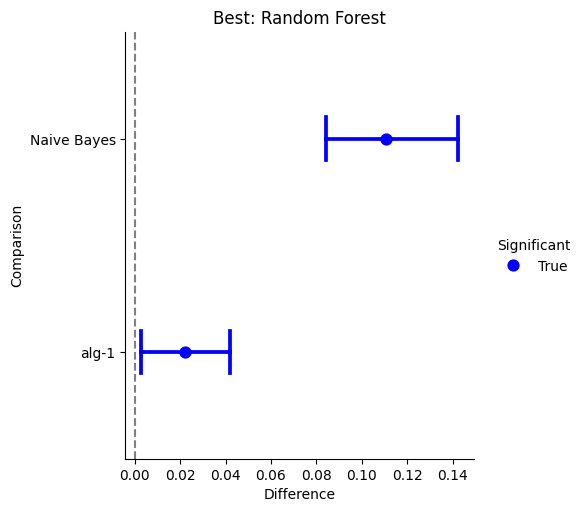
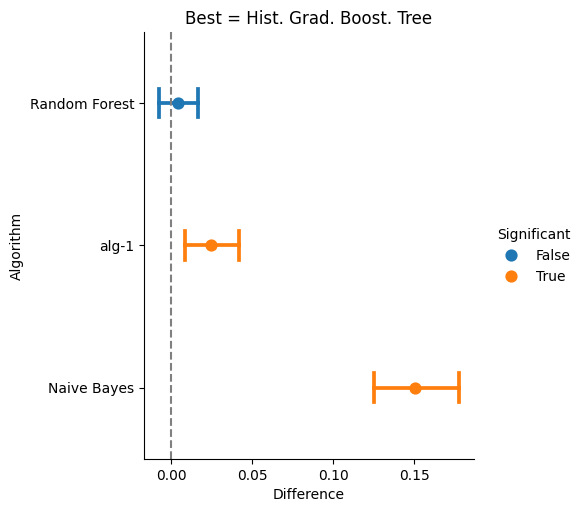
Docs (1)

diff --git a/README.rst b/README.rst
@@ -27,7 +27,7 @@ CompStats
 
 Collaborative competitions have gained popularity in the scientific and technological fields. These competitions involve defining tasks, selecting evaluation scores, and devising result verification methods. In the standard scenario, participants receive a training set and are expected to provide a solution for a held-out dataset kept by organizers. An essential challenge for organizers arises when comparing algorithms' performance, assessing multiple participants, and ranking them. Statistical tools are often used for this purpose; however, traditional statistical methods often fail to capture decisive differences between systems' performance. CompStats implements an evaluation methodology for statistically analyzing competition results and competition. CompStats offers several advantages, including off-the-shell comparisons with correction mechanisms and the inclusion of confidence intervals. 
 
-To illustrate the use of `CompStats`, the following snippets show an example. The instructions load the necessary libraries, including the one to obtain the problem (e.g., digits), three different classifiers, and the last line is the score used to measure the performance and compare the algorithm. 
+To illustrate the use of `CompStats`, the following snippets show an example. The instructions load the necessary libraries, including the one to obtain the problem (e.g., digits), four different classifiers, and the last line is the score used to measure the performance and compare the algorithm. 
 
 >>> from sklearn.svm import LinearSVC
 >>> from sklearn.naive_bayes import GaussianNB
@@ -51,10 +51,10 @@ Once the predictions are available, it is time to measure the algorithm's perfor
 >>> score
 <Perf(score_func=f1_score, statistic=0.9435, se=0.0099)>
 
-The previous code shows the macro-f1 score and, in parenthesis, its standard error. The actual performance value is stored in the `statistic` function.
+The previous code shows the macro-f1 score and its standard error. The actual performance value is stored in the attributes `statistic` function, and `se`
 
->>> score.statistic
-0.9434834454375508
+>>> score.statistic, score.se
+(0.9521479775366307, 0.009717884979482313)
 
 Continuing with the example, let us assume that one wants to test another classifier on the same problem, in this case, a random forest, as can be seen in the following two lines. The second line predicts the validation set and sets it to the analysis. 
 
@@ -63,28 +63,34 @@ Continuing with the example, let us assume that one wants to test another classi
 <Perf(score_func=f1_score)>
 Statistic with its standard error (se)
 statistic (se)
-0.9655 (0.0077) <= Random Forest
-0.9435 (0.0099) <= alg-1
+0.9720 (0.0076) <= Random Forest
+0.9521 (0.0097) <= alg-1
 
-Let us incorporate another prediction, now with the Naive Bayes classifier, as seen below.
+Let us incorporate another predictions, now with Naive Bayes classifier, and Histogram Gradient Boosting as seen below.
 
 >>> nb = GaussianNB().fit(X_train, y_train)
 >>> score(nb.predict(X_val), name='Naive Bayes')
 <Perf(score_func=f1_score)>
 Statistic with its standard error (se)
 statistic (se)
-0.9655 (0.0077) <= Random Forest
-0.9435 (0.0099) <= alg-1
-0.8549 (0.0153) <= Naive Bayes
+0.9759 (0.0068) <= Hist. Grad. Boost. Tree
+0.9720 (0.0076) <= Random Forest
+0.9521 (0.0097) <= alg-1
+0.8266 (0.0159) <= Naive Bayes
 
-The final step is to compare the performance of the three classifiers, which can be done with the `difference` method, as seen next.  
+The performance, its confidence interval (5%), and a statistical comparison (5%) between the best performing system with the rest of the algorithms is depicted in the following figure.
+
+>>> score.plot()
+
+The final step is to compare the performance of the four classifiers, which can be done with the `difference` method, as seen next.  
 
 >>> diff = score.difference()
 >>> diff
 <Difference>
-difference p-values  w.r.t Random Forest
+difference p-values  w.r.t Hist. Grad. Boost. Tree
 0.0000 <= Naive Bayes
-0.0120 <= alg-1
+0.0100 <= alg-1
+0.3240 <= Random Forest
 
 The class `Difference` has the `plot` method that can be used to depict the difference with respect to the best. 
 

diff --git a/docs/source/metrics_api.rst b/docs/source/metrics_api.rst
@@ -27,7 +27,7 @@
 
 :py:mod:`CompStats.metrics` aims to facilitate performance measurement (with standard errors and confidence intervals) and statistical comparisons between algorithms on a single problem, wrapping the different scores and loss functions found on :py:mod:`~sklearn.metrics`.
 
-To illustrate the use of :py:mod:`CompStats.metrics`, the following snippets show an example. The instructions load the necessary libraries, including the one to obtain the problem (e.g., digits), three different classifiers, and the last line is the score used to measure the performance and compare the algorithm. 
+To illustrate the use of :py:mod:`CompStats.metrics`, the following snippets show an example. The instructions load the necessary libraries, including the one to obtain the problem (e.g., digits), four different classifiers, and the last line is the score used to measure the performance and compare the algorithm. 
 
 >>> from sklearn.svm import LinearSVC
 >>> from sklearn.naive_bayes import GaussianNB
@@ -49,45 +49,52 @@ Once the predictions are available, it is time to measure the algorithm's perfor
 
 >>> score = f1_score(y_val, hy, average='macro')
 >>> score
-<Perf>
-Statistic with its standard error (se)
-statistic (se)
-0.9332 (0.0113) <= alg-1
+<Perf(score_func=f1_score, statistic=0.9521, se=0.0097)>
 
-The previous code shows the macro-f1 score and, in parenthesis, its standard error. The actual performance value is stored in the :py:func:`~CompStats.interface.Perf.statistic` function.
+The previous code shows the macro-f1 score and, in parenthesis, its standard error. The actual performance value is stored in the attributes :py:func:`~CompStats.interface.Perf.statistic` and :py:func:`~CompStats.interface.Perf.se`
 
->>> score.statistic
-{'alg-1': 0.9332035615949114}
+>>> score.statistic, score.se
+(0.9521479775366307, 0.009717884979482313)
 
 Continuing with the example, let us assume that one wants to test another classifier on the same problem, in this case, a random forest, as can be seen in the following two lines. The second line predicts the validation set and sets it to the analysis. 
 
 >>> ens = RandomForestClassifier().fit(X_train, y_train)
 >>> score(ens.predict(X_val), name='Random Forest')
-<Perf>
+<Perf(score_func=f1_score)>
 Statistic with its standard error (se)
 statistic (se)
-0.9756 (0.0061) <= Random Forest
-0.9332 (0.0113) <= alg-1
+0.9720 (0.0076) <= Random Forest
+0.9521 (0.0097) <= alg-1
 
-Let us incorporate another prediction, now with the Naive Bayes classifier, as seen below.
+Let us incorporate another predictions, now with Naive Bayes classifier, and Histogram Gradient Boosting as seen below.
 
 >>> nb = GaussianNB().fit(X_train, y_train)
 >>> score(nb.predict(X_val), name='Naive Bayes')
-<Perf>
+>>> hist = HistGradientBoostingClassifier().fit(X_train, y_train)
+>>> score(hist.predict(X_val), name='Hist. Grad. Boost. Tree')
+<Perf(score_func=f1_score)>
 Statistic with its standard error (se)
 statistic (se)
-0.9756 (0.0061) <= Random Forest
-0.9332 (0.0113) <= alg-1
-0.8198 (0.0144) <= Naive Bayes
+0.9759 (0.0068) <= Hist. Grad. Boost. Tree
+0.9720 (0.0076) <= Random Forest
+0.9521 (0.0097) <= alg-1
+0.8266 (0.0159) <= Naive Bayes
 
-The final step is to compare the performance of the three classifiers, which can be done with the :py:func:`~CompStats.interface.Perf.difference` method, as seen next.  
+The performance, its confidence interval (5%), and a statistical comparison (5%) between the best performing system with the rest of the algorithms is depicted in the following figure.
+
+>>> score.plot()
+
+.. image:: digits_perf.png
+
+The final step is to compare the performance of the four classifiers, which can be done with the :py:func:`~CompStats.interface.Perf.difference` method, as seen next.  
 
 >>> diff = score.difference()
 >>> diff
 <Difference>
-difference p-values w.r.t Random Forest
-0.0000 <= alg-1
+difference p-values  w.r.t Hist. Grad. Boost. Tree
 0.0000 <= Naive Bayes
+0.0100 <= alg-1
+0.3240 <= Random Forest
 
 The class :py:class:`~CompStats.Difference` has the :py:class:`~CompStats.Difference.plot` method that can be used to depict the difference with respectto the best. 
 
